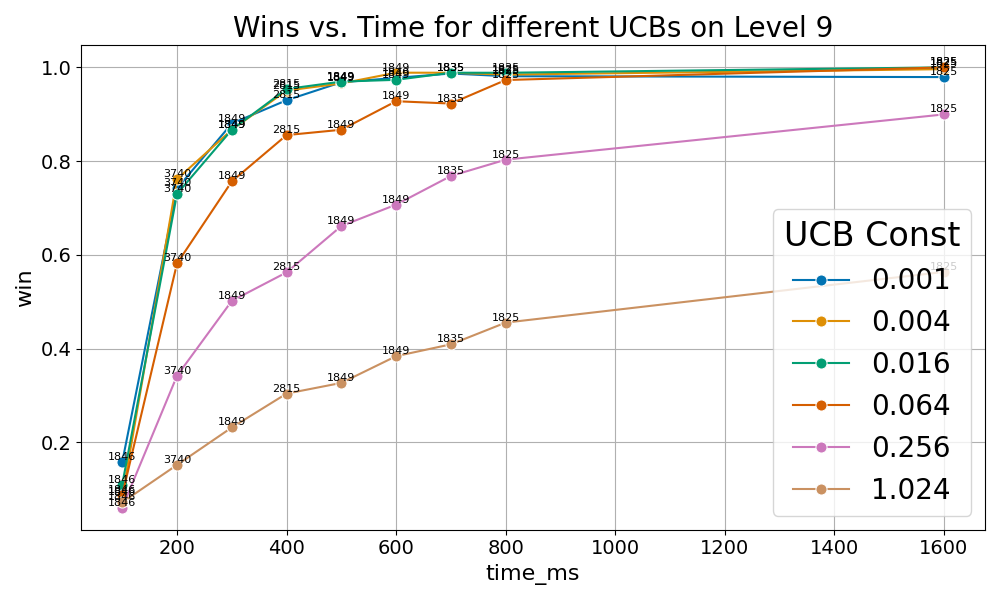
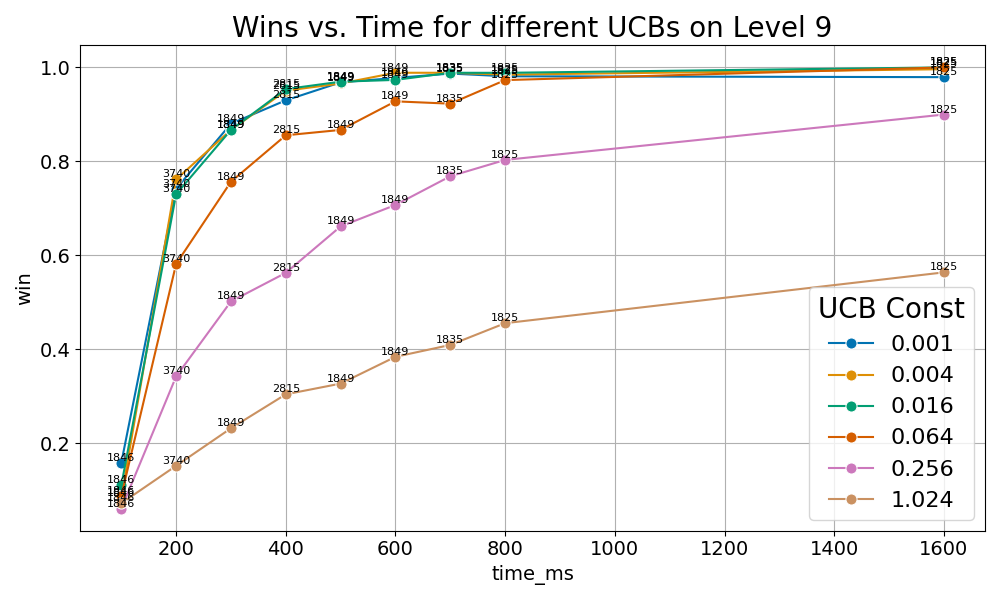
More Graphs

diff --git a/game_ai/create_graphs.py b/game_ai/create_graphs.py
@@ -45,6 +45,61 @@ plant_to_name = (
     "wallnut",
 )
 
+to_legend = {
+    "heuristic_mode": {mcts.NO_HEURISTIC: "No Heuristic", mcts.HEURISTIC_SELECT: "Selection Heuristic"},
+    "selection_mode": {mcts.FULL_EXPAND: "Full Expand", mcts.SQUARE_RATIO: "Square Ratio"},
+    "loss_heuristic": {
+        mcts.NO_HEURISTIC: "No Heuristic",
+        mcts.FRAME_HEURISTIC: "Frame Heuristic",
+        mcts.TOTAL_PLANT_COST_HEURISTIC: "Plant Cost Heuristic",
+        mcts.TOTAL_ZOMBIE_HP_HEURISTIC: "Total Zombie HP Heuristic",
+        mcts.ZOMBIES_LEFT_TO_SPAWN_HEURISTIC: "Zombies to Spawn Heuristic",
+    },
+    "rollout_mode": {
+        mcts.NORMAL_MCTS: "No Parallelization",
+        mcts.MAX_NODE: "Parallel MAX",
+        mcts.AVG_NODE: "Parallel AVG",
+        mcts.PARALLEL_TREES: "Parallel TREES",
+    },
+}
+
+legend_font_sizes = {
+    "small": {
+        "titlesize": "16",
+        "fontsize": "14",
+    },
+    "medium": {
+        "titlesize": "20",
+        "fontsize": "16",
+    },
+    "large": {
+        "titlesize": "24",
+        "fontsize": "20",
+    },
+}
+
+#     heuristic_modes_filter=[
+#         mcts.NO_HEURISTIC,
+#         # mcts.HEURISTIC_SELECT,
+#     ],
+#     selection_modes_filter=[
+#         mcts.FULL_EXPAND,
+#         # mcts.SQUARE_RATIO,
+#     ],
+#     loss_heuristics_filter=[
+#         mcts.NO_HEURISTIC,
+#         # mcts.FRAME_HEURISTIC,
+#         # mcts.TOTAL_PLANT_COST_HEURISTIC,
+#         # mcts.TOTAL_ZOMBIE_HP_HEURISTIC,
+#         # mcts.ZOMBIES_LEFT_TO_SPAWN_HEURISTIC,
+#     ],
+#     expansion_modes_filter=[
+#         # mcts.NORMAL_MCTS,
+#         # mcts.MAX_NODE,
+#         # mcts.AVG_NODE,
+#         mcts.PARALLEL_TREES
+#     ],
+
 
 rollout_mode_to_name = {
     NORMAL_MCTS: "No Parallelization",
@@ -83,6 +138,7 @@ def filter_and_plot_pvz_data(
     y_axis,
     title=None,
     file_name=None,
+    log_scale=False,
     # Filters
     level=None,
     time_ms_filter=None,
@@ -96,7 +152,8 @@ def filter_and_plot_pvz_data(
     group_graphs_by="level",
     # Legend tuning...
     hue_order=None,
-    legend_location="upper left"
+    legend_location="upper left",
+    legend_size="medium"
     # hue_norm=None,
 ):
     # Read CSV file into a DataFrame
@@ -146,19 +203,39 @@ def filter_and_plot_pvz_data(
         title = f"{x_axis} vs {y_axis}"
 
     plt.title(title, fontsize=20)
-    plt.xlabel(x_axis, fontsize=16)
-    plt.ylabel(y_axis, fontsize=16)
+    plt.xlabel(x_axis, fontsize=14)
+    plt.ylabel(y_axis, fontsize=14)
     plt.xticks(fontsize=14)
     plt.yticks(fontsize=14)
     plt.grid(True)
-    plt.legend(title=to_title[group_graphs_by], title_fontsize="24", fontsize="20", loc=legend_location)
 
+    # Get unique values for the legend based on group_graphs_by
+    unique_legend_values = sorted(filtered_data[group_graphs_by].unique())
+
+    if group_graphs_by in to_legend.keys():
+        # Modify legend labels as needed
+        legend_labels = [to_legend[group_graphs_by][value] for value in unique_legend_values]
+    else:
+        # Keep legend labels as-is
+        legend_labels = unique_legend_values
+
+    plt.legend(
+        title=to_title[group_graphs_by],
+        title_fontsize=legend_font_sizes[legend_size]["titlesize"],
+        fontsize=legend_font_sizes[legend_size]["fontsize"],
+        loc=legend_location,
+        labels=legend_labels,
+    )
     # Annotate each point with the correct sample count
     for line in ax.lines:
         x, y = line.get_xydata().T
         for xi, yi in zip(x, y):
             sample_count = len(filtered_data[(filtered_data[x_axis] == xi)])
             plt.text(xi, yi, sample_count, fontsize=8, ha="center", va="bottom", color="black")
+
+    # Set to log scale if need be
+    if log_scale:
+        plt.xscale("log")
 
     # Save the plot
     plt.tight_layout()
@@ -298,6 +375,9 @@ def filter_and_plot_pvz_data(
 # )
 
 
+############################################
+
+
 # 5.5.1
 filter_and_plot_pvz_data(
     CSV_FILENAME,
@@ -315,6 +395,7 @@ filter_and_plot_pvz_data(
     y_axis="win",
     group_graphs_by="level",
     legend_location="lower right",
+    legend_size="large",
 )
 
 
@@ -369,9 +450,11 @@ filter_and_plot_pvz_data(
     selection_modes_filter=[mcts.FULL_EXPAND],
     loss_heuristics_filter=[mcts.NO_HEURISTIC],
     expansion_modes_filter=[mcts.PARALLEL_TREES],  # <--
-    x_axis="time_ms",
+    x_axis="ucb_const",  # <--
     y_axis="win",
-    group_graphs_by="ucb_const",
+    group_graphs_by="time_ms",  # <--
+    log_scale=True,  # <--
+    legend_location="upper right",
 )
 
 
@@ -391,6 +474,64 @@ filter_and_plot_pvz_data(
     x_axis="time_ms",
     y_axis="win",
     group_graphs_by="ucb_const",
+    legend_location="lower right",
+)
+
+
+# 6.1.1.1
+filter_and_plot_pvz_data(
+    CSV_FILENAME,
+    title="Normal Agent vs. Parallel-Max on Level 9",
+    file_name="6.1.1.1_level_9_normal_vs_parallel_max",
+    level=["9"],
+    time_ms_filter={"max": 1600},  # <--
+    ucb_filter=[0.004],
+    threads_filter=None,
+    heuristic_modes_filter=[mcts.NO_HEURISTIC],
+    selection_modes_filter=[mcts.FULL_EXPAND],
+    loss_heuristics_filter=[mcts.NO_HEURISTIC],
+    expansion_modes_filter=[mcts.NORMAL_MCTS, mcts.MAX_NODE],
+    x_axis="time_ms",
+    y_axis="win",
+    group_graphs_by="rollout_mode",
+    legend_location="lower right",
+)
+
+# 6.1.1.2
+filter_and_plot_pvz_data(
+    CSV_FILENAME,
+    title="Normal Agent vs. Parallel-Max on Level 9+",
+    file_name="6.1.1.2_level_9+_normal_vs_parallel_max",
+    level=["9+"],
+    time_ms_filter={"max": 1600},  # <--
+    ucb_filter=[0.004],
+    threads_filter=[8],  # <----
+    heuristic_modes_filter=[mcts.NO_HEURISTIC],
+    selection_modes_filter=[mcts.FULL_EXPAND],
+    loss_heuristics_filter=[mcts.NO_HEURISTIC],
+    expansion_modes_filter=[mcts.NORMAL_MCTS, mcts.MAX_NODE],
+    x_axis="time_ms",
+    y_axis="win",
+    group_graphs_by="rollout_mode",
+    legend_location="lower right",
+)
+
+# 6.1.1.2 ++
+filter_and_plot_pvz_data(
+    CSV_FILENAME,
+    title="Varying Threads Parallel-Max on Level 9+",
+    file_name="6.1.1.2_level_9+_parallel_max_threads",
+    level=["9+"],
+    time_ms_filter={"max": 1600},  # <--
+    ucb_filter=[0.004],
+    threads_filter=None,
+    heuristic_modes_filter=[mcts.NO_HEURISTIC],
+    selection_modes_filter=[mcts.FULL_EXPAND],
+    loss_heuristics_filter=[mcts.NO_HEURISTIC],
+    expansion_modes_filter=[mcts.MAX_NODE],
+    x_axis="time_ms",
+    y_axis="win",
+    group_graphs_by="threads",
     legend_location="lower right",
 )
 
